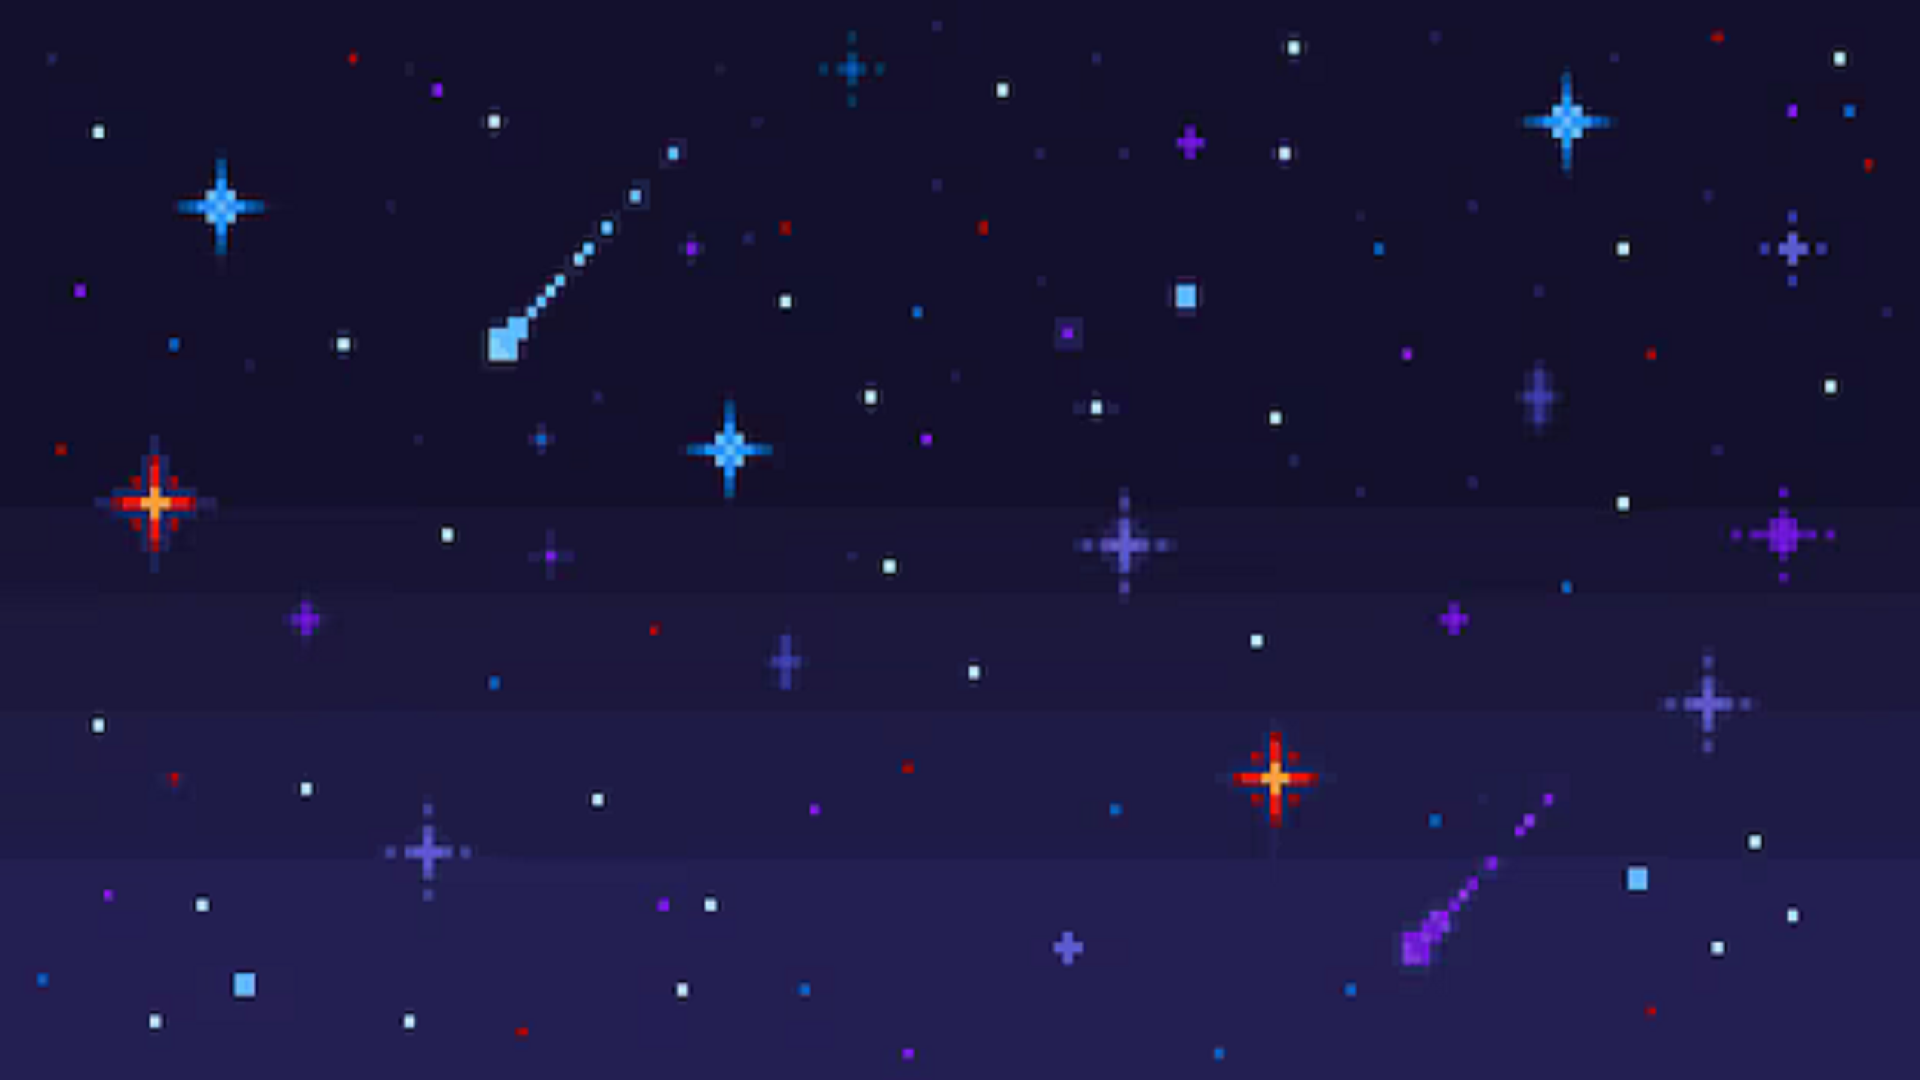
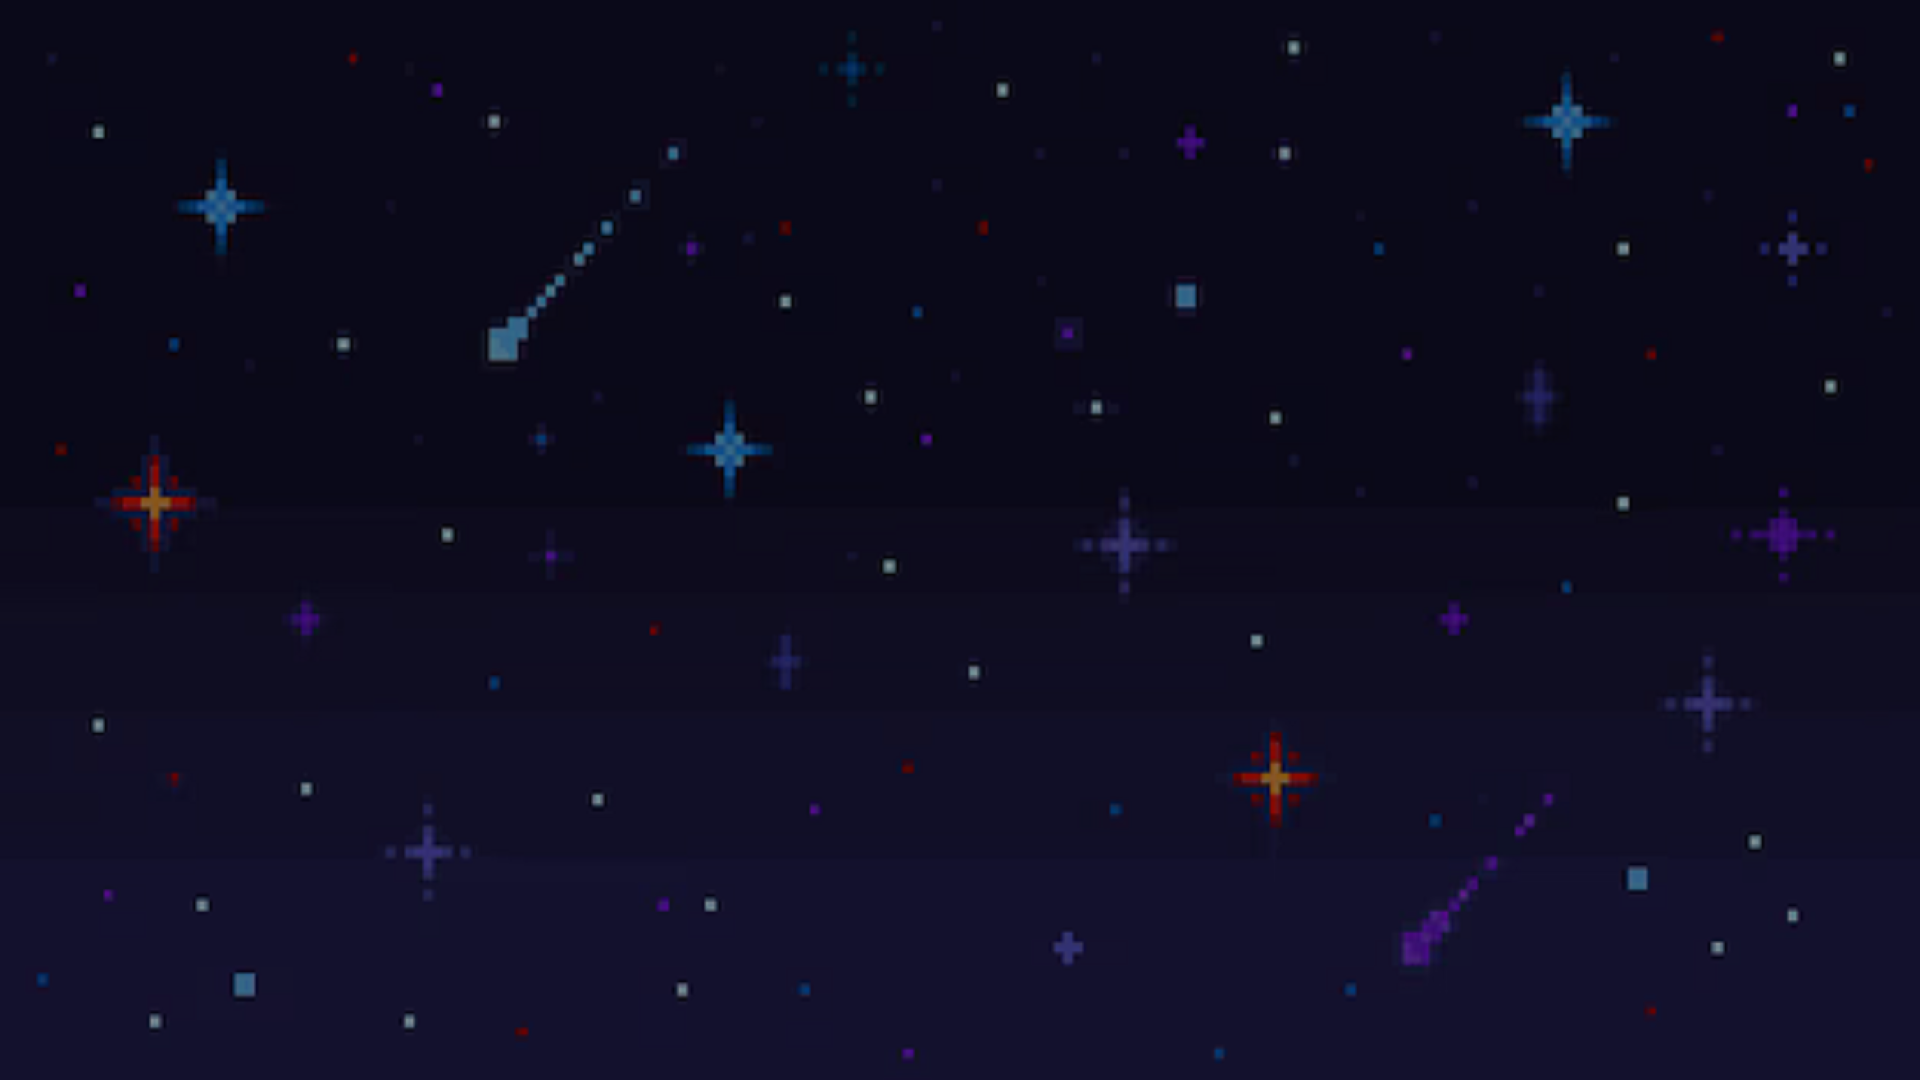
Add files via upload

diff --git a/Battleships/Battleships.py b/Battleships/Battleships.py
@@ -1,4 +1,5 @@
 import time, sys, os, pygame
+#import PySimpleGUI as psG
 from pygame.locals import *                #Allows easier use of pygame functions
 #from tkinter import *
 #from PIL import Image, ImageTk
@@ -6,6 +7,9 @@ pygame.init() #Initializes pyGame
 clock = pygame.time.Clock()         #Limits FPS to 60
 
 #Much of this code was imported from my personal platformer project, so it may be a little messy
+
+#Apologies, it requires another module on top of pyGame - pySimpleGUI.
+#It can be installed through powershell with 'python -m pip install PySimpleGUI'
 
 ScreenSizeObj = pygame.display.Info()
 worldx, worldy = ScreenSizeObj.current_w,ScreenSizeObj.current_h
@@ -18,7 +22,7 @@ global level #Sorry, I know its bad practice but I couldn't find a way around it
 level = 0
 running = True
 #Background
-backgroundUnsized = pygame.image.load(os.path.join("Battleships Images","UI","background.png")).convert_alpha #gives transparency layer
+background = pygame.image.load("Battleships Images/UI/background.png")
 
 
 
@@ -38,9 +42,8 @@ class Player(pygame.sprite.Sprite):
         self.images = []
         self.aniCycles = 2
 
+        self.torpedos = 20
 
-        
-        
         for i in range(1,self.aniCycles + 1): #Loads the two frames of animation
             img = pygame.image.load("Battleships Images/UI/Cursor.png")
             #an easier way to add more frames of the animation - just add 1 more number to the next file
@@ -51,27 +54,22 @@ class Player(pygame.sprite.Sprite):
             self.rect = self.bigrect.inflate(-32,-16)
 
 
-                      
-            
     def update(self):
         pressed_keys = pygame.key.get_pressed()
         mousePos = pygame.mouse.get_pos() #use rect.collidepoint for detection
-        
-        if pressed_keys[K_SPACE]:
-            print("Firing Shot!")
-        
+        for ship in ship_list:
+            if ship.rect.collidepoint(mousePos) == True:    #If mouse position intersects the rect box:
+                if pressed_keys[K_SPACE] and self.torpedos > 0: #And rect is pressed and torpedos remain:
+                    print("Firing Shot!")                         #Fire
+                    print("HIT!!!!!!")
+                    pygame.sprite.Sprite.kill(ship)               #Delete the hit ship
+                    ship = []                                     #Clear the log of collisions
 
-                  
-        if self.rect.left > 0:
-              if pressed_keys[K_LEFT]:
-                  print("")
-                  #move cursor 
         if pressed_keys[K_ESCAPE]:
             running = False
 
-
-    
         
+
     def animate(self):
         if self.aniCounter >= 20:                                    #Reduces the speeed of the animation 10x
             if self.curFrame >= self.aniCycles:                        #Resets the frame whenever it loops
@@ -79,17 +77,17 @@ class Player(pygame.sprite.Sprite):
             self.image = self.images[self.curFrame]
             self.curFrame += 1
             self.aniCounter = 0
-            
 
-                     
     def draw(self, surface):
         screen.blit(self.image, self.rect)
+
+        
 
 class UI(pygame.sprite.Sprite):
     def __init__(self, xloc,yloc, imgw, imgh, img):
         super().__init__()
         grid = pygame.image.load("Battleships Images/UI/grid.png")
-        background = pygame.image.load("Battleships Images/UI/baackground.png")
+        
         self.rect.y = yloc
         self.rect.x = xloc
         imgw = 128
@@ -101,18 +99,16 @@ class UI(pygame.sprite.Sprite):
 
 
 
-
-        
 class Ship(pygame.sprite.Sprite):
     def __init__(self, xloc,yloc, imgw, imgh, img):
         super().__init__()
-        self.image = pygame.image.load("M:/Battleships Temp/Battleships Images/Ships/Battleship_Large.png").convert_alpha()
+        self.image = pygame.image.load("Battleships Images/Ships/Battleship_Large.png").convert_alpha()
         self.bigrect = self.image.get_rect()
-        self.rect = self.bigrect.inflate(128,128)
+        self.rect = self.bigrect.inflate(imgw,imgh)
         self.rect.y = yloc
         self.rect.x = xloc
-        imgw = 128
-        imgh = 128
+        imgw = 256
+        imgh = 256
 
     def draw(self, screen):
         screen.blit(self.image, self.rect)
@@ -121,52 +117,41 @@ class Ship(pygame.sprite.Sprite):
 
 class Level:                                             
     def ship(level, tx, ty):
-
         ship_list = pygame.sprite.Group()
         shloc = []   #sploc is a list which determines the location of the ships e.g. [0, 642,screenY,256]. it may be more efficient to add locs here.oly do when sure of a pos
         i = 0
         if level == 1:
              #Place spike locations for stage 1 here 
-             shloc.append((worldx // 2+ty, worldy // 2,1))           #The last number is how many ships in a row there are                        
+             shloc.append((64, worldy // 2,9))           #The last number is how many ships in a row there are                        
              shloc.append((worldx // 2, worldy -ty, 0))
         elif level == 2:
              shloc.append((worldx // 2+ty, worldy //2, 10))
              shloc.append((worldx // 2, worldy -ty, 10))
-
         while i < len(shloc):                                    
             j = 0
             while j <= shloc[i][2]:
-                shp = Ship((shloc[i][0] + (j * tx)), shloc[i][1], tx, ty, pygame.image.load("M:/Battleships Temp/Battleships Images/Ships/Battleship_Large.png"))
+                shp = Ship((shloc[i][0] + (j * (2.5*tx))), shloc[i][1], tx, ty, pygame.image.load("Battleships Images/Ships/Battleship_Large.png"))  #Change distance between ships with (j*tx)
                 ship_list.add(shp)
                 j = j + 1
             i = i + 1
-            
         return ship_list
 
-    def UI(level,tx,ty):
-        print("placeholder")
-        
-    
+
     def newLevel(level,tx,ty):
         level += 1
         Level.clearList()
         global ship_list 
         ship_list = Level.ship(level, tx, ty)       
-
-        print(level)
+        
     def clearList():
         ship_list = []
 
-                
 
 
-    
 
 
-            
 
 Level.newLevel(level, tx, ty)
-
 
 player = Player() #spawn the player character
 player.rect.y,player.rect.x = worldy // 2,worldx // 2    #moves to middle of screen
@@ -180,20 +165,17 @@ while running == True:
         if event.type == pygame.QUIT:
             pygame.quit()
             sys.exit()
-
-
-
-    player.update()
-    player.animate()
-
-#    UI.draw(screen)
-
-    ship_list.draw(screen) 
     
 
+    player.update()
+    
+    player.animate()
+
+    screen.blit(background,(0,0))
+
     player.draw(screen)
+    ship_list.draw(screen)
 
 
     pygame.display.update()
     screen.fill("black")
-